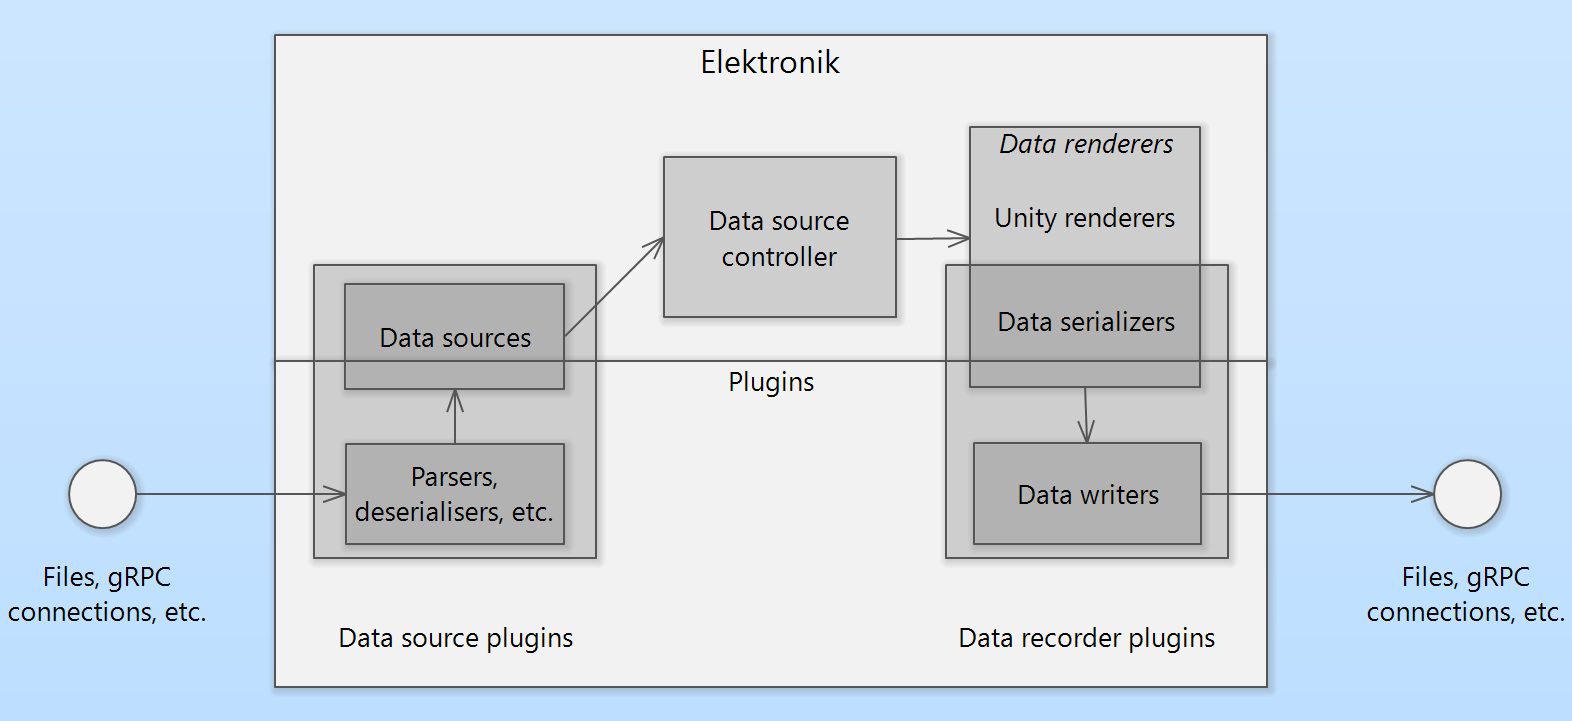
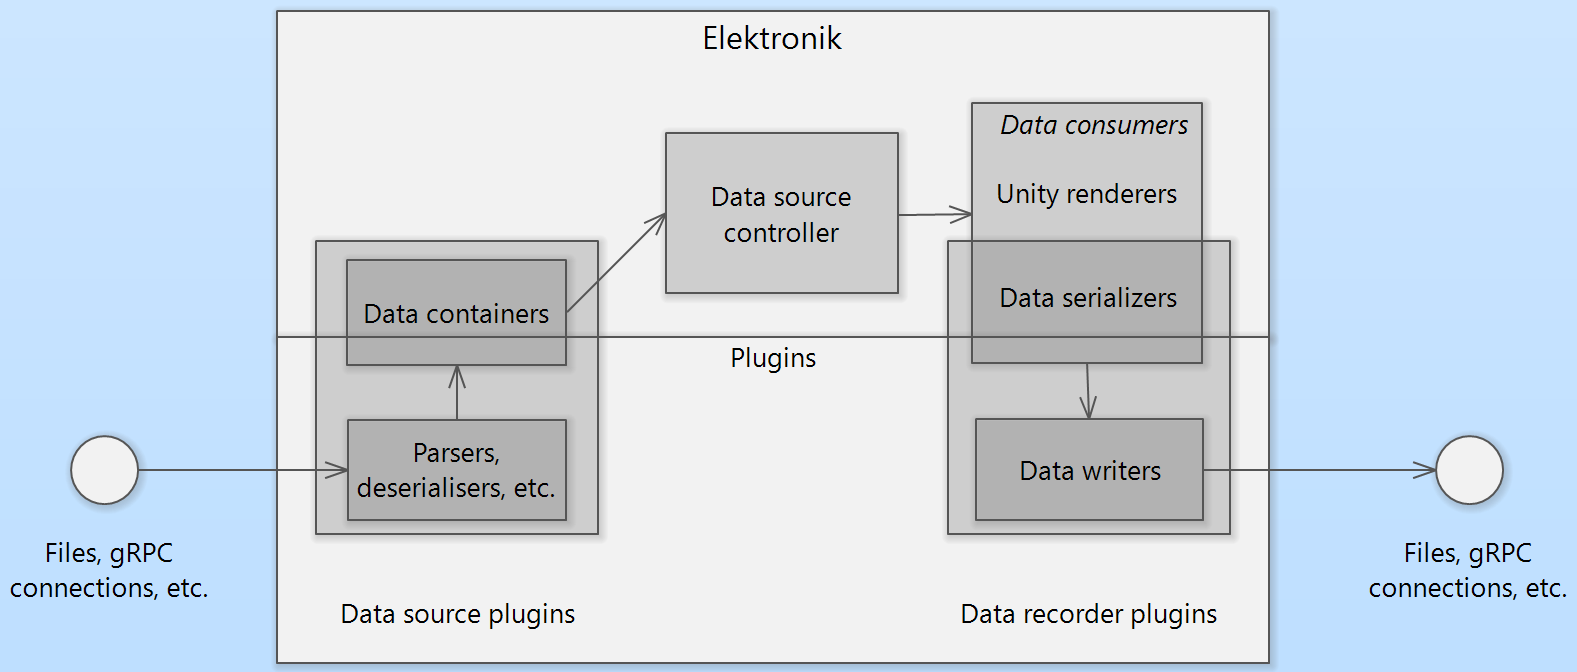
Documentation updated

diff --git a/docs/API-RU.md b/docs/API-RU.md
@@ -1,8 +1,8 @@
 ### Архитектура Электроника построена на основе паттрена MVC.
 
-- В качестве модели выступают классы "источники данных" реализующие интерфейс [ISourceTreeNode](../Assets/Scripts/Data/ISourceTreeNode.cs).
-- Отображением занимаются "рендереры", класс реализующие интерфейс [ISourceRenderer](../Assets/Scripts/Renderers/ISourceRenderer.cs).
-- Класс [DataSourcesController](../Assets/Scripts/Data/DataSourcesController.cs) осуществляет подписку рендереров на изменения модели.
+- В качестве модели выступают классы "источники данных" реализующие интерфейс [ISourceTreeNode](../Assets/Scripts/DataSources/ISourceTreeNode.cs).
+- Отображением занимаются "потребители данных", классы реализующие интерфейс [IDataConsumer](../Assets/Scripts/DataConsumers/IDataConsumer.cs).
+- Класс [DataSourcesController](../Assets/Scripts/DataControllers/DataSourcesController.cs) осуществляет подписку потребителей на изменения модели.
 
 ![Диаграмма](Images/ElektronikDiagram.png)
 
@@ -10,40 +10,42 @@
 
 Источники данных можно разделить на три категории: 
 - Контейнеры облачных данных. Они содержат данные которые можно нарисовать на сцене (точки, линии, плоскости, меши, наблюдения и отслеживаемые объекты). 
-  Эти контейнеры также реализуют интерфейс [IContainer\<T\>](../Assets/Scripts/Containers/IContainer.cs). 
-  Референсная реализация приведена в классе [CloudContainerBase\<T\>](../Assets/Scripts/Containers/CloudContainerBase.cs).
-- Виртуальные. Они не содержат информации, а лишь позволяют организовать другие источники в дерево. Реализуются классом [VirtualSource](../Assets/Scripts/Containers/VirtualSource.cs) 
+  Эти контейнеры также реализуют интерфейс [IContainer\<T\>](../Assets/Scripts/DataSources/Containers/IContainer.cs). 
+  Референсная реализация приведена в классе [CloudContainerBase\<T\>](../Assets/Scripts/DataSources/Containers/CloudContainerBase.cs).
+- Виртуальные. Они не содержат информации, а лишь позволяют организовать другие источники в дерево. Реализуются классом [VirtualSource](../Assets/Scripts/DataSources/Containers/VirtualSource.cs) 
 - Все остальные. Они содержат данные, которые нельзя нарисовать на сцене, например текст, изображения с камеры и т.д. 
-  Эти источники также реализуют интерфейс [IRendersToWindow](../Assets/Scripts/UI/Windows/IRendersToWindow.cs)
+  Эти источники также реализуют интерфейс [IRendersToWindow](../Assets/Scripts/DataSources/SpecialInterfaces/IRendersToWindow.cs)
 
 Источники данных могут реализовывать дополнительные интерфейсы, которые позволяют пользователю взаимодействовать с ними через окно "Дерево данных":
-- ![button](Images/VisibilityButton.png) [IVisible](../Assets/Scripts/Containers/SpecialInterfaces/IVisible.cs) Позволяет включать или выключать отображение источника.
-  *Посылает в рендер сигнал о удалении всех объектов при выключении видимости и о добавлении - при включении.* Референсная реализация: [CloudContainer\<T\>](../Assets/Scripts/Containers/CloudContainer.cs).
-- ![button](Images/LookAtButton.png) [ILookable](../Assets/Scripts/Containers/SpecialInterfaces/ILookable.cs) Позволяет навести камеру на данные.
-  *Для переданных координат камеры возвращает ближайшие координаты с которых будет видно всё содержимое контейнера* Референсная реализация: [CloudContainer\<T\>](../Assets/Scripts/Containers/CloudContainer.cs).
-- ![button](Images/LookAtButton.png) [IFollowable](../Assets/Scripts/Containers/SpecialInterfaces/IFollowable.cs) Позволяет закрепить камеру за объектом.
-  Референсная реализация: [TrackContainer](../Assets/Scripts/Containers/TrackContainer.cs).
-- ![button](Images/DeleteButton.png) [IRemovable](../Assets/Scripts/Containers/SpecialInterfaces/IRemovable.cs) Позволяет удалить источник данных из дерева. 
-  Референсная реализация: [CloudContainer\<T\>](../Assets/Scripts/Clusterization/ClustersContainer.cs).
-- ![button](Images/SaveButton.png) [ISave](../Assets/Scripts/Containers/SpecialInterfaces/ISave.cs) Маркирует, что источник можно сохранять в файл.
-- ![button](Images/TraceButton.png) [ITraceable](../Assets/Scripts/Containers/SpecialInterfaces/ITraceable.cs) Маркирует, что для данных из этого источника можно рисовать след.
-  Референсная реализация: [CloudContainer\<T\>](../Assets/Scripts/Containers/CloudContainer.cs).
-- ![button](Images/Connections.png) [IWeightable](../Assets/Scripts/Containers/SpecialInterfaces/IWeightable.cs) Позволяет управлять отображением данных в зависимости от числового коэффициента.
-  *Посылает в рендер сигнал о удалении всех объектов не соответствующих коэффициенту.* Референсная реализация: [Connector](../Assets/Scripts/Containers/Connector.cs).
-- [ISnapshotable](../Assets/Scripts/Containers/SpecialInterfaces/ISnapshotable.cs) Позволяет скопировать содержимое контейнера и его дочерних элементов. 
-  Референсная реализация: [CloudContainer\<T\>](../Assets/Scripts/Containers/CloudContainer.cs).
+- ![button](Images/VisibilityButton.png) [IVisible](../Assets/Scripts/DataSources/SpecialInterfaces/IVisible.cs) Позволяет включать или выключать отображение источника.
+  *Посылает в рендер сигнал о удалении всех объектов при выключении видимости и о добавлении - при включении.* Референсная реализация: [CloudContainer\<T\>](../Assets/Scripts/DataSources/Containers/CloudContainer.cs).
+- ![button](Images/LookAtButton.png) [ILookable](../Assets/Scripts/DataSources/SpecialInterfaces/ILookable.cs) Позволяет навести камеру на данные.
+  *Для переданных координат камеры возвращает ближайшие координаты с которых будет видно всё содержимое контейнера* Референсная реализация: [CloudContainer\<T\>](../Assets/Scripts/DataSources/Containers/CloudContainer.cs).
+- ![button](Images/LookAtButton.png) [IFollowable](../Assets/Scripts/DataSources/SpecialInterfaces/IFollowable.cs) Позволяет закрепить камеру за объектом.
+  Референсная реализация: [TrackContainer](../Assets/Scripts/DataSources/Containers/TrackContainer.cs).
+- ![button](Images/DeleteButton.png) [IRemovable](../Assets/Scripts/DataSources/SpecialInterfaces/IRemovable.cs) Позволяет удалить источник данных из дерева. 
+  Референсная реализация: [CloudContainer\<T\>](../Assets/Scripts/DataSources/Containers/ClustersContainer.cs).
+- ![button](Images/SaveButton.png) [ISave](../Assets/Scripts/DataSources/SpecialInterfaces/ISave.cs) Маркирует, что источник можно сохранять в файл.
+- ![button](Images/TraceButton.png) [ITraceable](../Assets/Scripts/DataSources/SpecialInterfaces/ITraceable.cs) Маркирует, что для данных из этого источника можно рисовать след.
+  Референсная реализация: [CloudContainer\<T\>](../Assets/Scripts/DataSources/Containers/CloudContainer.cs).
+- ![button](Images/Connections.png) [IWeightable](../Assets/Scripts/DataSources/SpecialInterfaces/IWeightable.cs) Позволяет управлять отображением данных в зависимости от числового коэффициента.
+  *Посылает в рендер сигнал о удалении всех объектов не соответствующих коэффициенту.* Референсная реализация: [Connector](../Assets/Scripts/DataSources/Containers/Connector.cs).
+- ![button](Images/OpenWindowButton.png) [IRendersToWindow](../Assets/Scripts/DataSources/SpecialInterfaces/IRendersToWindow.cs) Маркирует, что содержимое данного источника должно отображаться
+  не на сцене, а в отдельном окне.
+- [IClusterable](../Assets/Scripts/DataSources/SpecialInterfaces/IClusterable.cs) Маркирует, что содержимое контейнер содержит облако точек, которое можно разбивать на кластеры.
 
 Структура модели, добавление и изменение данных в ней определяется в [плагинах](Plugins-RU.md).
 
 ## Отображение
 
-Рендереры можно разделить на две категории:
+Потребителей можно разделить на две категории:
 - Для отображения облачных данных (точки, линии, плоскости, меши, наблюдения и отслеживаемые объекты) на сцене. 
-  Они реализуют интерфейс [ICloudRenderer\<T\>](../Assets/Scripts/Clouds/Renderers/ICloudRenderer.cs) или [IMeshRenderer](../Assets/Scripts/Clouds/Renderers/IMeshRenderer.cs).
-  Референсная реализация: [CloudRenderer\<T\>](../Assets/Scripts/Clouds/Renderers/CloudRenderer.cs).
+  Они реализуют интерфейс [ICloudRenderer\<T\>](../Assets/Scripts/DataConsumers/CloudRenderers/Renderers/ICloudRenderer.cs)
+  или [IMeshRenderer](../Assets/Scripts/DataConsumers/CloudRenderers/Renderers/IMeshRenderer.cs).
+  Референсная реализация: [CloudRenderer\<T\>](../Assets/Scripts/DataConsumers/CloudRenderers/Renderers/CloudRenderer.cs).
 - Для отображения всех остальных типов данных в отдельных окнах.
-  Они реализуют интерфейс [IDataRenderer\<T\>](../Assets/Scripts/Renderers/IDataRenderer.cs).
-  Референсная реализация: [ImageRenderer](../Assets/Scripts/Renderers/ImageRenderer.cs).
+  Они реализуют интерфейс [IDataRenderer\<T\>](../Assets/Scripts/DataConsumers/Windows/IDataRenderer.cs).
+  Референсная реализация: [ImageRenderer](../Assets/Scripts/DataConsumers/Windows/ImageRenderer.cs).
 
 ## Контроллер
 
@@ -84,11 +86,11 @@ foreach (var child in Children)
 - [SlamPlane](../Assets/Scripts/Data/PackageObjects/SlamPlane.cs) Плоскости.
 
 Также для удобства разработки плагинов в Электронике уже реализованы некоторые контейнеры для хранения облачных типов данных:
-- [CloudContainerBase\<T\>](../Assets/Scripts/Containers/CloudContainerBase.cs) Простой контейнер данных.
-- [CloudContainer\<T\>](../Assets/Scripts/Containers/CloudContainer.cs) Наследник `CloudContainerBase`, который реализует ещё и
-  `ILookable`, `IVisible`, `ITraceable`, `IClusterable`, `ISnapshotable`.
-- [ConnectableObjectsContainer\<T\>](../Assets/Scripts/Containers/ConnectableObjectsContainer.cs) Контейнер для объектов, которые связаны между собой.
-- [TrackedObjectsContainer](../Assets/Scripts/Containers/TrackedObjectsContainer.cs) Контейнер, который хранит не только сами объекты, но ещё и историю их перемещения.
-- [MeshReconstructor](../Assets/Scripts/Containers/MeshReconstructor.cs) Контейнер, который по содержимому дркгих контейнеров строит меш.
+- [CloudContainerBase\<T\>](../Assets/Scripts/DataSources/Containers/CloudContainerBase.cs) Простой контейнер данных.
+- [CloudContainer\<T\>](../Assets/Scripts/DataSources/Containers/CloudContainer.cs) Наследник `CloudContainerBase`, который реализует ещё и
+  `ILookable`, `IVisible`, `ITraceable`, `IClusterable`.
+- [ConnectableObjectsContainer\<T\>](../Assets/Scripts/DataSources/Containers/ConnectableObjectsContainer.cs) Контейнер для объектов, которые связаны между собой.
+- [TrackedObjectsContainer](../Assets/Scripts/DataSources/Containers/TrackedObjectsContainer.cs) Контейнер, который хранит не только сами объекты, но ещё и историю их перемещения.
+- [MeshReconstructor](../Assets/Scripts/DataSources/Containers/MeshReconstructor.cs) Контейнер, который по содержимому дркгих контейнеров строит меш.
 
 [<- Использование](Usage-RU.md) | [Написать свой плагин ->](Plugins-RU.md)

diff --git a/docs/API-EN.md b/docs/API-EN.md
@@ -1,8 +1,8 @@
 ### Elektronik's architecture is based on MVC patter.
 
-- Model is classes implementing [ISourceTreeNode](../Assets/Scripts/Data/ISourceTreeNode.cs) interface. This classes we calling Data Sources.
-- View is classes implementing [ISourceRenderer](../Assets/Scripts/Renderers/ISourceRenderer.cs). This classes we calling Renderers.
-- Class [DataSourcesController](../Assets/Scripts/Data/DataSourcesController.cs) subscribes renderers to data sources.
+- Model is classes implementing [ISourceTreeNode](../Assets/Scripts/DataSources/ISourceTreeNode.cs) interface. This classes we calling Data Sources.
+- View is classes implementing [ISourceRenderer](../Assets/Scripts/DataConsumers/IDataConsumer.cs). This classes we calling Data Consumers.
+- Class [DataSourcesController](../Assets/Scripts/DataControllers/DataSourcesController.cs) subscribes renderers to data sources.
 
 ![diagram](Images/ElektronikDiagram.png)
 
@@ -10,39 +10,39 @@
 
 Data sources can be divided on three groups:
 - Cloud data containers. They contains data that can be rendered on unity scene such as points, lines, planes, meshes, observations, tracked objects.
-  This containers implements [IContainer\<T\>](../Assets/Scripts/Containers/IContainer.cs) interface.
-  Reference implementation: [CloudContainerBase\<T\>](../Assets/Scripts/Containers/CloudContainerBase.cs).
-- Virtual. They don't contains any information and just help to organize other sources into tree structure. Implemented in [VirtualSource](../Assets/Scripts/Containers/VirtualSource.cs).
+  This containers implements [IContainer\<T\>](../Assets/Scripts/DataSources/Containers/IContainer.cs) interface.
+  Reference implementation: [CloudContainerBase\<T\>](../Assets/Scripts/DataSources/Containers/CloudContainerBase.cs).
+- Virtual. They don't contains any information and just help to organize other sources into tree structure. Implemented in [VirtualSource](../Assets/Scripts/DataSources/Containers/VirtualSource.cs).
 - All others. They contains data that can't be rendered on scene such as text, images, etc.
-  This sources implements [IRendersToWindow](../Assets/Scripts/UI/Windows/IRendersToWindow.cs) interface.
+  This sources implements [IRendersToWindow](../Assets/Scripts/DataSources/SpecialInterfaces/IRendersToWindow.cs) interface.
 
 Data sources can implement other special interface that allows user ot interact with them through data tree window.
-- ![button](Images/VisibilityButton.png) [IVisible](../Assets/Scripts/Containers/SpecialInterfaces/IVisible.cs) Toggles source visibility.
-  *On disabling visibility sends signal to renderer about removing all points.* Reference implementation: [CloudContainer\<T\>](../Assets/Scripts/Containers/CloudContainer.cs).
-- ![button](Images/LookAtButton.png) [ILookable](../Assets/Scripts/Containers/SpecialInterfaces/ILookable.cs) Allows to move camera to see all data from container.
-  *For given camera coordinates returns nearest coordinates from where camera will see all objects from this container* Reference implementation: [CloudContainer\<T\>](../Assets/Scripts/Containers/CloudContainer.cs).
-- ![button](Images/LookAtButton.png) [IFollowable](../Assets/Scripts/Containers/SpecialInterfaces/IFollowable.cs) Allows to make camera follow object.
-  Reference implementation: [TrackContainer](../Assets/Scripts/Containers/TrackContainer.cs).
-- ![button](Images/DeleteButton.png) [IRemovable](../Assets/Scripts/Containers/SpecialInterfaces/IRemovable.cs) Allows to remove this data source from tree.
-  Reference implementation: [CloudContainer\<T\>](../Assets/Scripts/Clusterization/ClustersContainer.cs).
-- ![button](Images/SaveButton.png) [ISave](../Assets/Scripts/Containers/SpecialInterfaces/ISave.cs) Marks that this data source can be saved to file.
-- ![button](Images/TraceButton.png) [ITraceable](../Assets/Scripts/Containers/SpecialInterfaces/ITraceable.cs) Marks that objects from this container can leave a trace.
-  Reference implementation: [CloudContainer\<T\>](../Assets/Scripts/Containers/CloudContainer.cs).
-- ![button](Images/Connections.png) [IWeightable](../Assets/Scripts/Containers/SpecialInterfaces/IWeightable.cs)  Reference implementation: [Connector](../Assets/Scripts/Containers/Connector.cs).
-- [ISnapshotable](../Assets/Scripts/Containers/SpecialInterfaces/ISnapshotable.cs) Allows to deep copy state of this data source and all it's children.
-  Reference implementation: [CloudContainer\<T\>](../Assets/Scripts/Containers/CloudContainer.cs).
+- ![button](Images/VisibilityButton.png) [IVisible](../Assets/Scripts/DataSources/SpecialInterfaces/IVisible.cs) Toggles source visibility.
+  *On disabling visibility sends signal to renderer about removing all points.* Reference implementation: [CloudContainer\<T\>](../Assets/Scripts/DataSources/Containers/CloudContainer.cs).
+- ![button](Images/LookAtButton.png) [ILookable](../Assets/Scripts/DataSources/SpecialInterfaces/ILookable.cs) Allows to move camera to see all data from container.
+  *For given camera coordinates returns nearest coordinates from where camera will see all objects from this container* Reference implementation: [CloudContainer\<T\>](../Assets/Scripts/DataSources/Containers/CloudContainer.cs).
+- ![button](Images/LookAtButton.png) [IFollowable](../Assets/Scripts/DataSources/SpecialInterfaces/IFollowable.cs) Allows to make camera follow object.
+  Reference implementation: [TrackContainer](../Assets/Scripts/DataSources/Containers/TrackContainer.cs).
+- ![button](Images/DeleteButton.png) [IRemovable](../Assets/Scripts/DataSources/SpecialInterfaces/IRemovable.cs) Allows to remove this data source from tree.
+  Reference implementation: [CloudContainer\<T\>](../Assets/Scripts/DataSources/Containers/ClustersContainer.cs).
+- ![button](Images/SaveButton.png) [ISave](../Assets/Scripts/DataSources/SpecialInterfaces/ISave.cs) Marks that this data source can be saved to file.
+- ![button](Images/TraceButton.png) [ITraceable](../Assets/Scripts/DataSources/SpecialInterfaces/ITraceable.cs) Marks that objects from this container can leave a trace.
+  Reference implementation: [CloudContainer\<T\>](../Assets/Scripts/DataSources/Containers/CloudContainer.cs).
+- ![button](Images/Connections.png) [IWeightable](../Assets/Scripts/DataSources/SpecialInterfaces/IWeightable.cs)  Reference implementation: [Connector](../Assets/Scripts/DataSources/Containers/Connector.cs).
+- ![button](Images/OpenWindowButton.png) [IRendersToWindow](../Assets/Scripts/DataSources/SpecialInterfaces/IRendersToWindow.cs) Marks that content of this source mast be rendered not on scene but in window.
+- [IClusterable](../Assets/Scripts/DataSources/SpecialInterfaces/IClusterable.cs) Marks that this data source contains point cloud that can be divided into clusters.
 
 Model's structure and adding/updating/removing data from/to it is controlled by [plugins](Plugins-EN.md).
 
 ## View
 
-Renderers can be divided on two groups:
+Consumers can be divided on two groups:
 - For rendering cloud data (points, lines, planes, meshes, observations, tracked objects) on scene. 
-  They implement [ICloudRenderer\<T\>](../Assets/Scripts/Clouds/Renderers/ICloudRenderer.cs) or [IMeshRenderer](../Assets/Scripts/Clouds/Renderers/IMeshRenderer.cs) interfaces.
-  Reference implementation: [CloudRenderer\<T\>](../Assets/Scripts/Clouds/Renderers/CloudRenderer.cs).
+  They implement [ICloudRenderer\<T\>](../Assets/Scripts/DataConsumers/CloudRenderers/Renderers/ICloudRenderer.cs) or [IMeshRenderer](../Assets/Scripts/DataConsumers/CloudRenderers/Renderers/IMeshRenderer.cs) interfaces.
+  Reference implementation: [CloudRenderer\<T\>](../Assets/Scripts/DataConsumers/CloudRenderers/Renderers/CloudRenderer.cs).
 - For rendering all other data (text, images, tables) in separate windows.
-  They implements [IDataRenderer\<T\>](../Assets/Scripts/Renderers/IDataRenderer.cs) interface.
-  Reference implementation: [ImageRenderer](../Assets/Scripts/Renderers/ImageRenderer.cs).
+  They implements [IDataRenderer\<T\>](../Assets/Scripts/DataConsumers/Windows/IDataRenderer.cs) interface.
+  Reference implementation: [ImageRenderer](../Assets/Scripts/DataConsumers/Windows/ImageRenderer.cs).
 
 ## Controller
 
@@ -82,11 +82,11 @@ At this moment there are several cloud data types:
 - [SlamPlane](../Assets/Scripts/Data/PackageObjects/SlamPlane.cs).
 
 Some of basic containers of cloud data types already implemented in Elektronik:
-- [CloudContainerBase\<T\>](../Assets/Scripts/Containers/CloudContainerBase.cs) Most simple container.
-- [CloudContainer\<T\>](../Assets/Scripts/Containers/CloudContainer.cs) Inheritor of `CloudContainerBase` also implements
-  `ILookable`, `IVisible`, `ITraceable`, `IClusterable`, `ISnapshotable` interfaces.
-- [ConnectableObjectsContainer\<T\>](../Assets/Scripts/Containers/ConnectableObjectsContainer.cs) Container for objects that are connected to each other.
-- [TrackedObjectsContainer](../Assets/Scripts/Containers/TrackedObjectsContainer.cs) Contains not only objects themself but also history of their movement.
-- [MeshReconstructor](../Assets/Scripts/Containers/MeshReconstructor.cs) Builds mesh based on data from other containers.
+- [CloudContainerBase\<T\>](../Assets/Scripts/DataSources/Containers/CloudContainerBase.cs) Most simple container.
+- [CloudContainer\<T\>](../Assets/Scripts/DataSources/Containers/CloudContainer.cs) Inheritor of `CloudContainerBase` also implements
+  `ILookable`, `IVisible`, `ITraceable`, `IClusterable` interfaces.
+- [ConnectableObjectsContainer\<T\>](../Assets/Scripts/DataSources/Containers/ConnectableObjectsContainer.cs) Container for objects that are connected to each other.
+- [TrackedObjectsContainer](../Assets/Scripts/DataSources/Containers/TrackedObjectsContainer.cs) Contains not only objects themself but also history of their movement.
+- [MeshReconstructor](../Assets/Scripts/DataSources/Containers/MeshReconstructor.cs) Builds mesh based on data from other containers.
 
 [<- Usage](Usage-EN.md) | [Write your onw plugin ->](Plugins-EN.md)

diff --git a/docs/Plugins-RU.md b/docs/Plugins-RU.md
@@ -1,3 +1,75 @@
+# Плагины для Электроника
+
+Возможность расширения Электроника плагинами является одной из его важнейших частей.
+Вся работа с протоколами приёма данных, чтением файлов и т.д. вынесена во внешние плагины,
+сам Электроник занимается только отображением входящих данных. 
+Поэтому с Электроником сразу поставляются несколько плагинов, для приема входящих данных: [Protobuf](Protobuf-RU.md), [ROS](ROS-RU.md).
+Вы можете использовать их как образец при разработке своих плагинов.
+
+В общем работа с плагинами выстроена следующим образом:
+- Плагины источники данных предоставляют дерево контейнеров данных, и заполняют эти контейнеры данными.
+- Электроник обписывает на обновление этих контейнеров объекты-рендереры, которые выводят данные на экран.
+- В качестве рендереров могут выступать другие плагины, которые, например, будут записывать данные в файл. 
+
+![Диаграмма](Images/ElektronikDiagram.png)
+
+## Структура плагинов
+
+Работа с плагиными выстроена по паттерну абстрактная фабрика. Каждый плагин должен определять класс фабрики реализующий интерфейс 
+[IElektronikPluginsFactory](../Assets/Scripts/PluginsSystem/Factories/IElektronikPluginsFactory.cs), этот класс отвечает за предварительную настройку плагина
+и его создание при вызове функции `IElektronikFactory.Start()`. Сам же плагин должен реализовывать интерфейс [IElektronikPlugin](../Assets/Scripts/PluginsSystem/Plugins/IElektronikPlugin.cs).
+
+Сами плагины можно поделить на три группы (в будущем их число скорее всего будет расширяться), каждая из этих групп имеет собственный интерфейс фабрик и плагинов:
+- Источники данных (Data source). Предоставляют данные для отображения в электронике.
+  - Фабрики: 
+    - [IDataSourcePluginsFactory](../Assets/Scripts/PluginsSystem/Factories/IDataSourcePluginsFactory.cs) Интерфейс фабрики для любых плагинов - источников данных.
+    - [ISnapshotReaderPluginFactory](../Assets/Scripts/PluginsSystem/Factories/IDataSourcePluginsFactory.cs) наследник `IDataSourcedPluginsFactory`. 
+      Указывает, что плагин может использоваться для чтения сохраненных в файл снапшотов.
+  - Плагины:
+    - [IDataSourcePlugin](../Assets/Scripts/PluginsSystem/Plugins/IDataSourcePlugin.cs) интерфейс для любых плагинов - источников данных.
+- Записыватели данных (Data recorders). Потребляют данные полученные от источников.
+  - Фабрики:
+    - [ICustomRecorderPluginsFactory](../Assets/Scripts/PluginsSystem/Factories/IDataRecorderPluginsFactory.cs) Интерфейс фабрики для любых плагинов - потребителей данных.
+    - [IFileRecorderPluginsFactory](../Assets/Scripts/PluginsSystem/Factories/IDataRecorderPluginsFactory.cs) Интерфейс фабрики для плагинов записывающих данные в файл.
+      Нужен для того, чтобы удобно сгрупировать плагины этого типа в пользовательском интерфейсе. (Подробнее [далее](#Пользовательский-интерфейс)) 
+  - Плагины:
+    - [IDataRecorderPlugin](../Assets/Scripts/PluginsSystem/Plugins/IDataRecorderPlugin.cs) интерфейс для любых плагинов - потребителей данных.
+- Алгоритмы сегментации облаков точек. Принимают список точек, возвращают список списков точек разбитых по определённому алгоритму.
+  - Фабрика: [IClusterizationAlgorithmFactory](../Assets/Scripts/PluginsSystem/Factories/IClusterizationAlgorithmFactory.cs)
+  - Плагин: [IClusterizationAlgorithm](../Assets/Scripts/PluginsSystem/Plugins/IClusterizationAlgorithm.cs)
+
+![Диграмма](Images/FactoriesDiargam.png)
+![Диграмма](Images/PluginsDiargam.png)
+
+Также плагины могут определять свой тип настроек унаследованный от [SettingsBag](../Assets/Scripts/Settings/Bags/SettingsBag.cs), 
+для этих типов будет сгенерирован пользовательский интерфейс, который позволит пользователю изменять содержимое полей настроек. (Подробнее: [UI](#Пользовательский-интерфейс), [Настройки](#Настройки)
+
+## Пользовательский интерфейс
+
+![Toolbar](Images/ToolbarPlugins.png)
+
+С точки зрения UI плагины можно разделить на две группы:
+- Плагины для которых UI реализован на стороне электроника.
+  - **Источники данных** (1) Для этих плагинов создаётся одно окно на всех, в нем можно выбрать нужный, установить настройки (или использовать предыдущие),
+  запустить проигрывание. Одновременно может быть запущен только один источник, поэтому перед запуском нового источника, старый будет остановлен.
+  
+  ![image](Images/ConnectionsWindow.png)
+  - **Плагины записывающие состояние сцены в файл** (2) Для этих плагинов создаётся одно окно на всех, 
+  в этом окне можно выбрать файл в который будет вестись запись. Нужный плагин будет определён по расширению файла. 
+  
+  ![image](Images/RecordToFileWindow.png)
+  - Алгоритмы сегментации (3)
+  
+  ![image](Images/ClusterizationWindow.png)
+- Все остальные плагины.
+  - Для остальных плагинов создается своя кнопка на панели инструментов. По нажатию на которое открывается окно со сгенерированными полями для изменения настроек.
+  - Пример: **Плагин для передачи состояния сцены по gRPC** (4)
+  
+  ![image](Images/RetranslatorWindow.png)
+
+Логотип для плагинов берётся из файла `<Elektronik_DIR>/Plugins/<Plugin_Name>/data/<IElektronikPluginsFactory.DisplayName>_Logo.png`, 
+если такой файл не был найден в панели инструментов будет использоапно полное название плагина.  
+
 # Написать свой плагин
 
 В данный момент Электроник поддерживает плагины, добавляющие новые типы источников данных, 

diff --git a/ReleaseNotes.md b/ReleaseNotes.md
@@ -3,6 +3,7 @@
 # Новое в этой версии
 - Горячие клавиши для большинства действий.
 - Возможность поставить паузу перемотать посследовательность в онлайн режиме.
+- Обновлённый пользоватьельский интерфейс.
 - Огромный рефакторинг системы плагинов. Теперь их написание должно быть легче благодаря более хорошим абстракциям. 
 
 -----------------------
@@ -10,4 +11,5 @@
 # New in this version
 - Hotkeys for most of actions.
 - Pause and rewind in online mode.
+- Updated UI.
 - Massive refactoring of plugins system. Now it has better abstractions and should be easier to implement.
